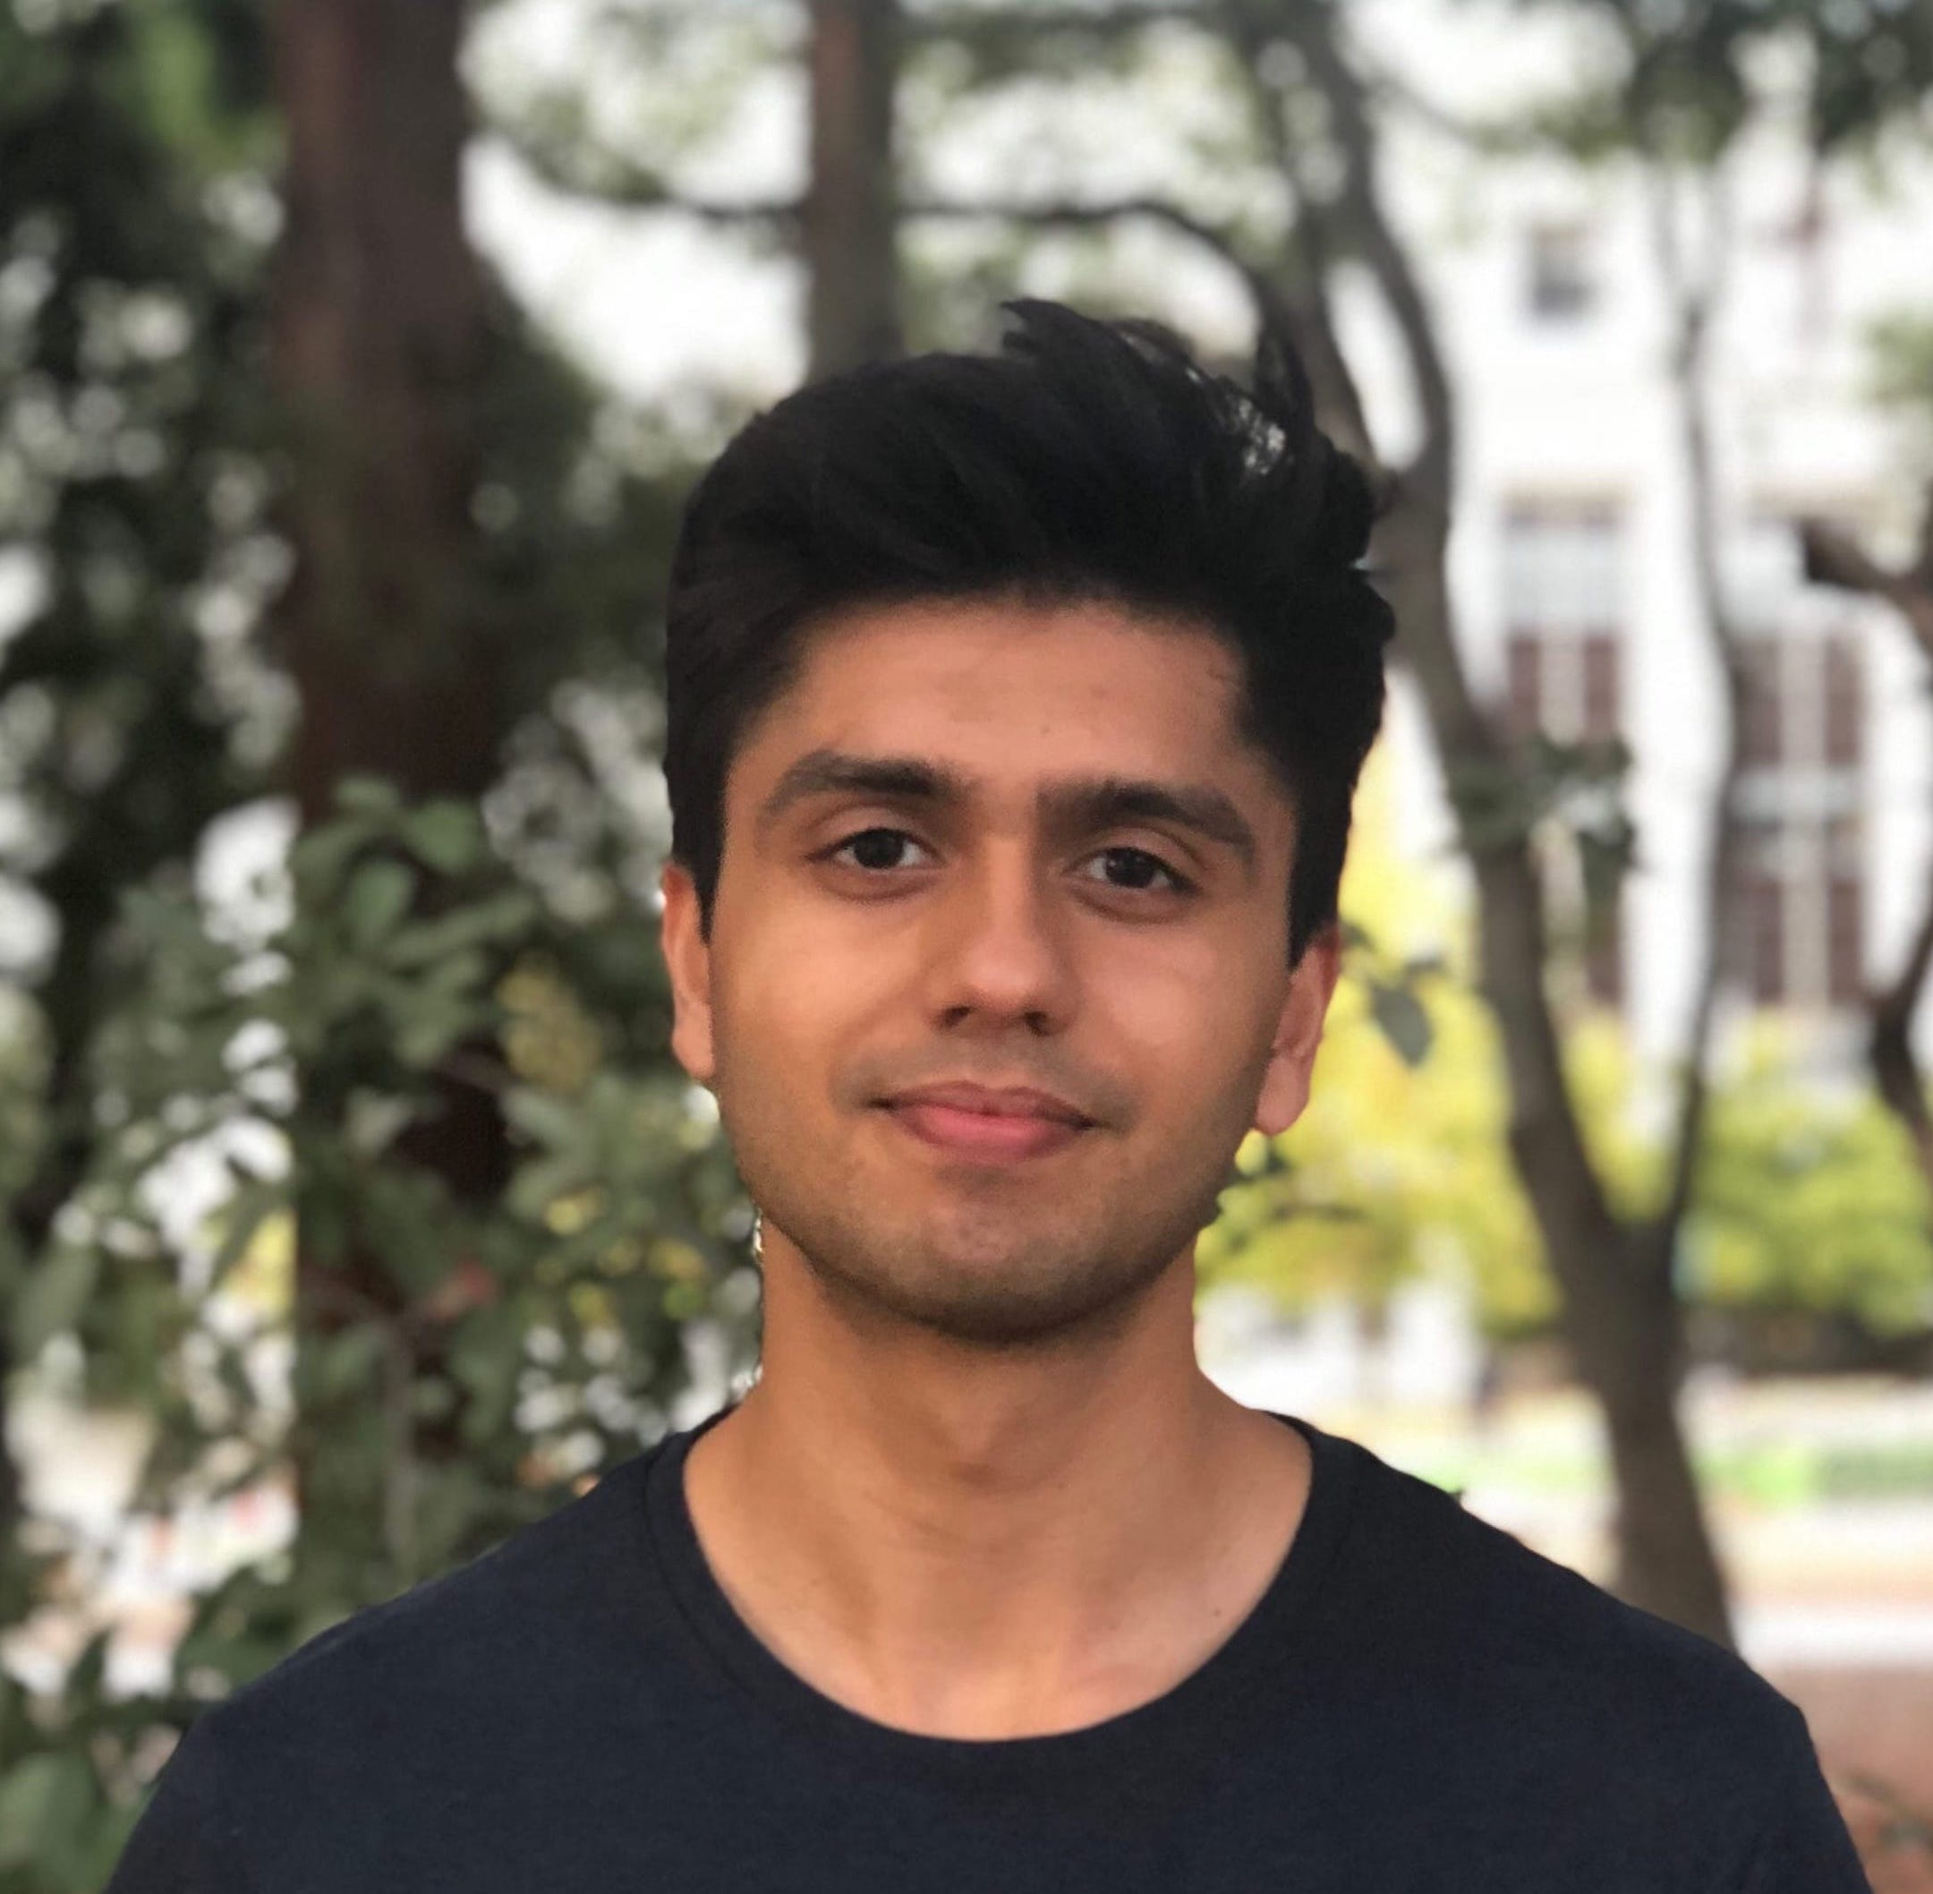
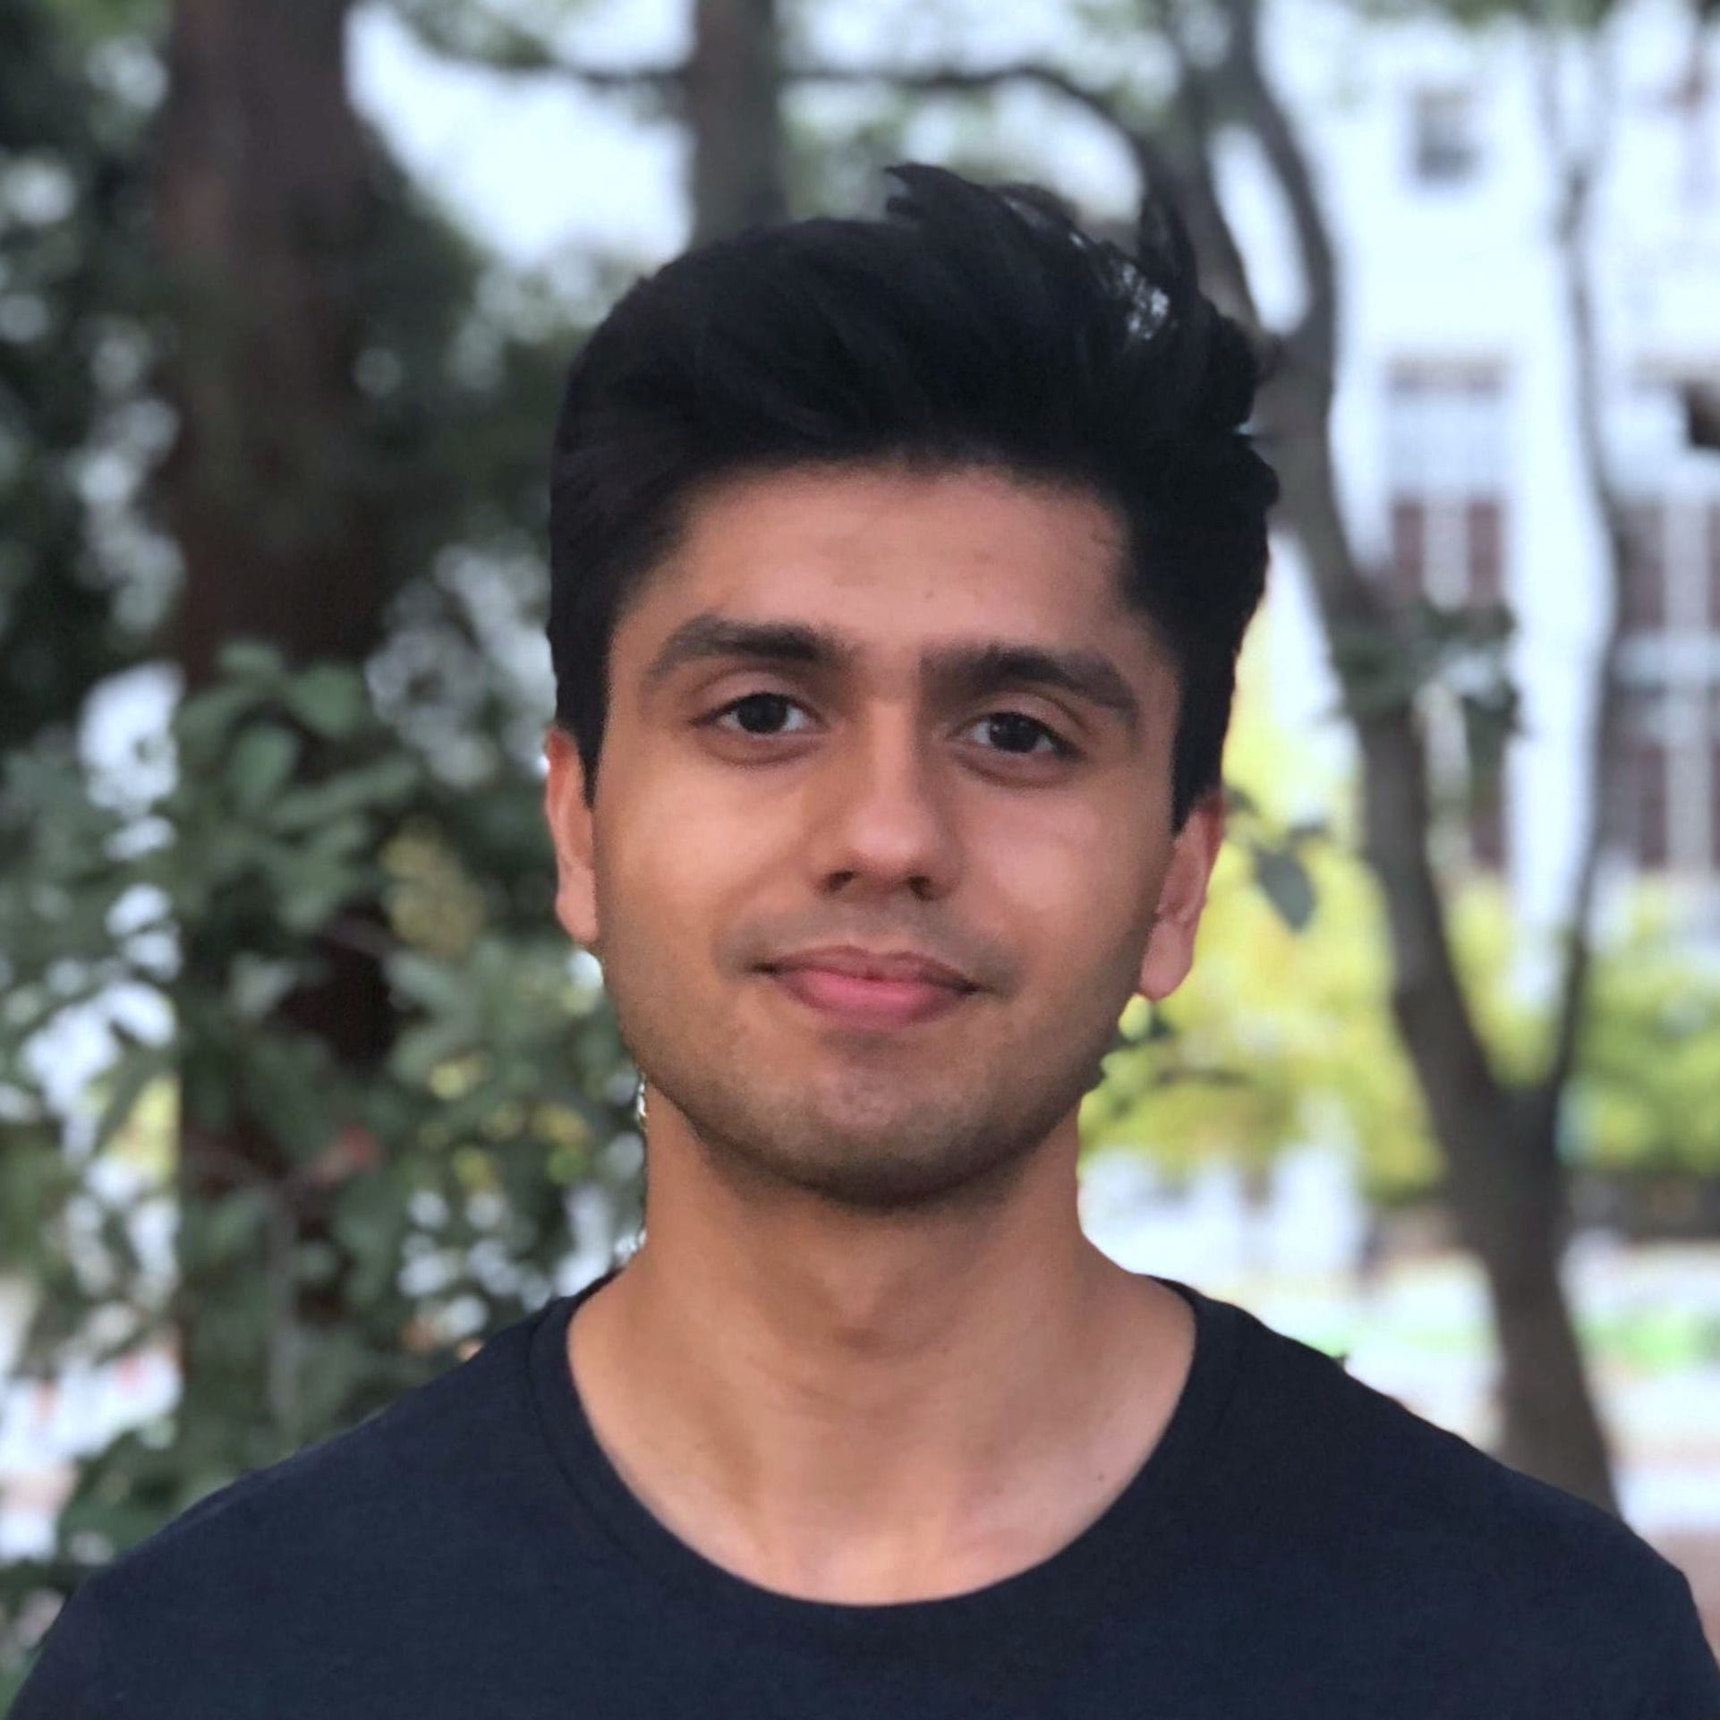
content updates

diff --git a/index.html b/index.html
@@ -70,7 +70,7 @@
 
       <div class="intro-info">
         <h2 style="font-size: 30px;">SEED<span style="font-weight: 400">CODE</h2>
-        <h2 class="">A One Stop Solution For All Your Software Development</h2>
+        <h2 class="">The All-Encompassing Solution For Your Software Development</h2>
         <p class="">Build your startup — get funding for your software development, recruit a team overseas, and
           build a product, service, & experience
           customers love.</p>
@@ -103,17 +103,17 @@
 
           <div class="col-lg-6 content order-lg-1 order-2">
             <p>
-              Rapid innovation is an essential feature of digital information technology.SeedCode understands the
-              importance of remaining current through frequent self-reinvention. We accomplish this by continually
-              attracting the brightest minds in modern digital paradigms and platforms. By maintaining a roster of
-              skilled technology professionals across every business function, SeedCode distinguishes itself by offering
-              its client organizations a single touchpoint to address all of their enterprise technology needs.
+              Digital information technology requires rapid innovation to succeed. SeedCode understands the significance
+              of remaining current through constant self-reinvention. We continually attract the brightest minds in
+              contemporary digital platforms and paradigms, utilizing an elite team of technology professionals across
+              each business function. As a top-tier employer, SeedCode values employee ownership, professional
+              fulfillment and job satisfaction.
             </p>
             <p>
-              SeedCode aspires to enhance the productivity and growth of organizations around the world with a
-              comprehensive range of digital solutions and services. As a top-tier employer, SeedCode promotes employee
-              ownership, leadership, professional fulfillment, and job satisfaction. We deliver profitability and
-              business success to our global clients through precise execution and technical excellence.
+              Distinguished by our capacity to address all of our global client’s enterprise technology demands at a
+              singular touchpoint, SeedCode delivers profitability and business success - through precision, technical
+              excellence and all-encompassing digital solutions. We aspire to augment the growth and productivity of
+              organizations around the world.
             </p>
 
             <!-- 
@@ -171,9 +171,9 @@
         </header>
         <h4 class="h4"> Our Latest Project</h4>
         <p class="portfolio-highlight">
-          <!-- Lorem ipsum dolor sit amet, consectetur adipiscing elit, sed do eiusmod tempor incididunt ut labore et dolore
-          magna aliqua. Ut enim ad minim veniam, quis nostrud exercitation ullamco laboris nisi ut aliquip ex ea commodo
-          consequat. -->
+          We developed a singular application for Samba Bank customers and non-customers alike, with an array of
+          features designed to
+          facilitate streamlined, on-the-go banking - available on iOS and Android.
         </p>
         <button class="btn ph-btn" type="button" data-toggle="collapse" data-target="#collapseExample"
           aria-expanded="false" aria-controls="collapseExample">
@@ -371,7 +371,7 @@
 
           <div class="col-lg-3 col-md-6 wow fadeIn">
             <div class="member">
-              <img src="img/team-2.jpeg" class="img-fluid" alt="">
+              <img src="img/team-2.jpg" class="img-fluid" alt="">
               <div class="member-info">
                 <div class="member-info-content">
                   <h4>Drew Stone</h4>
